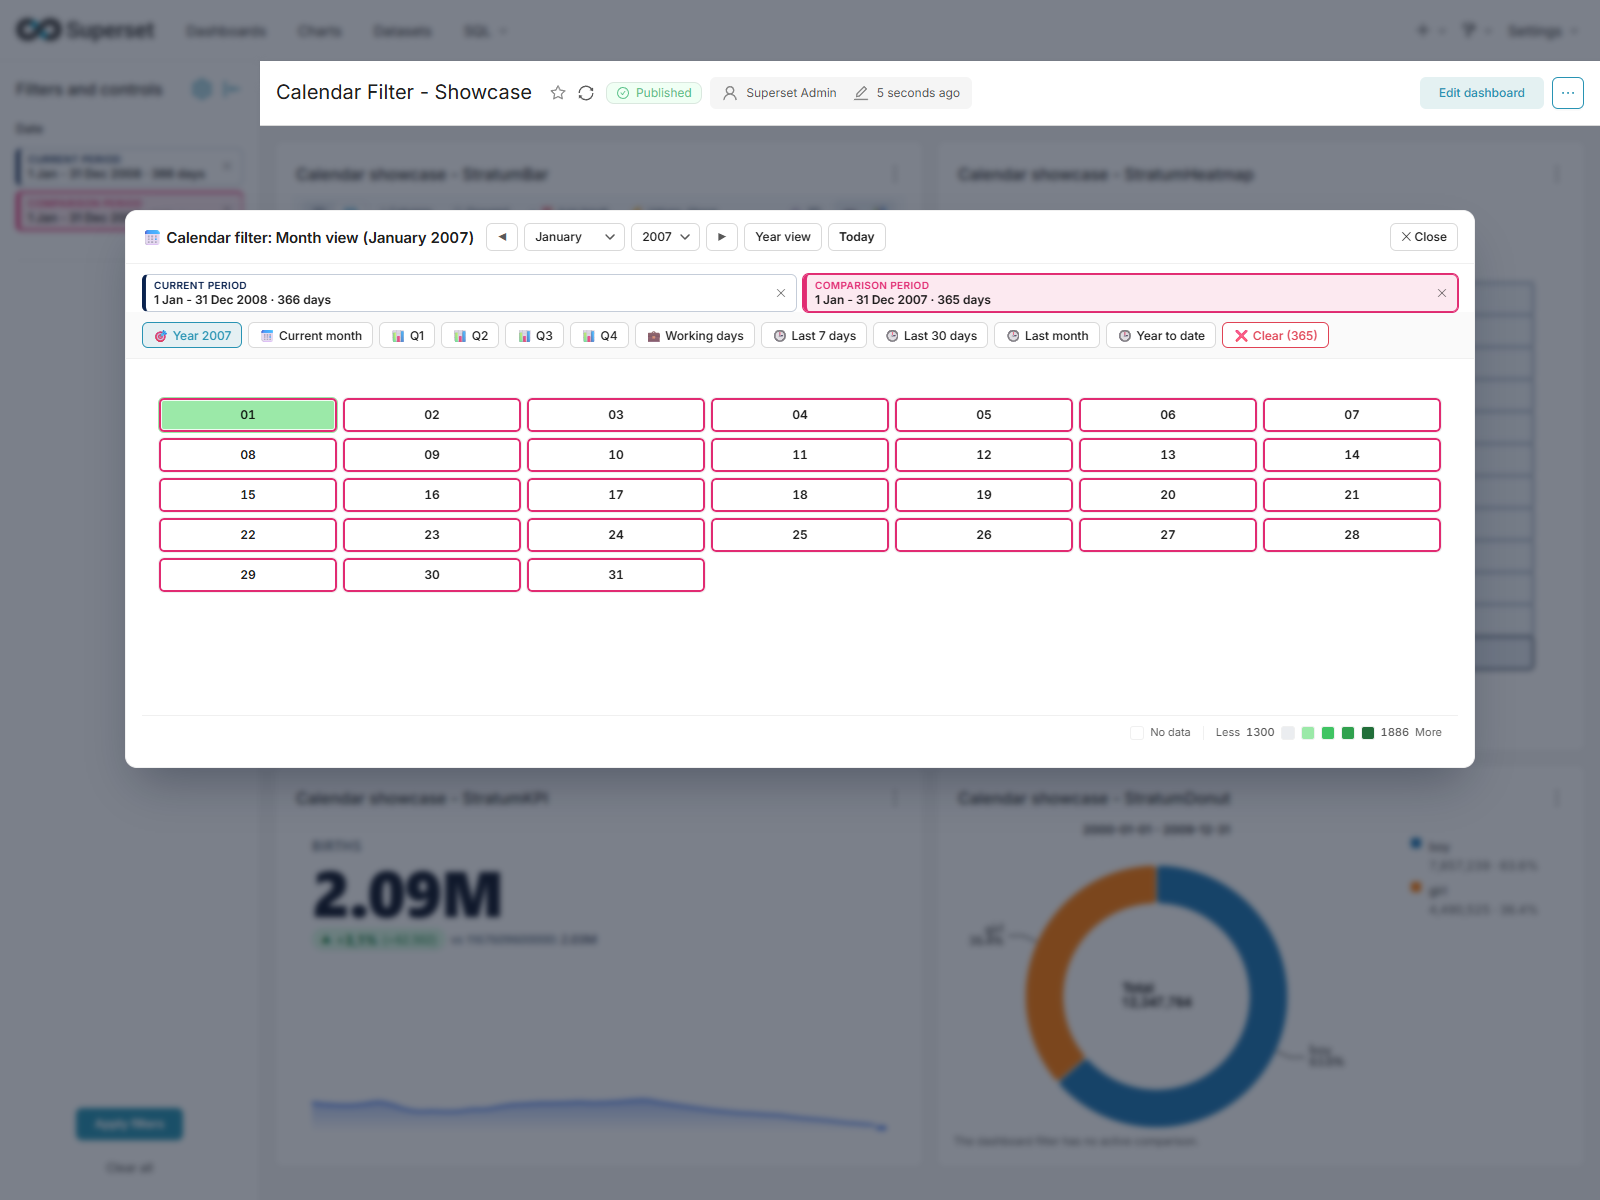
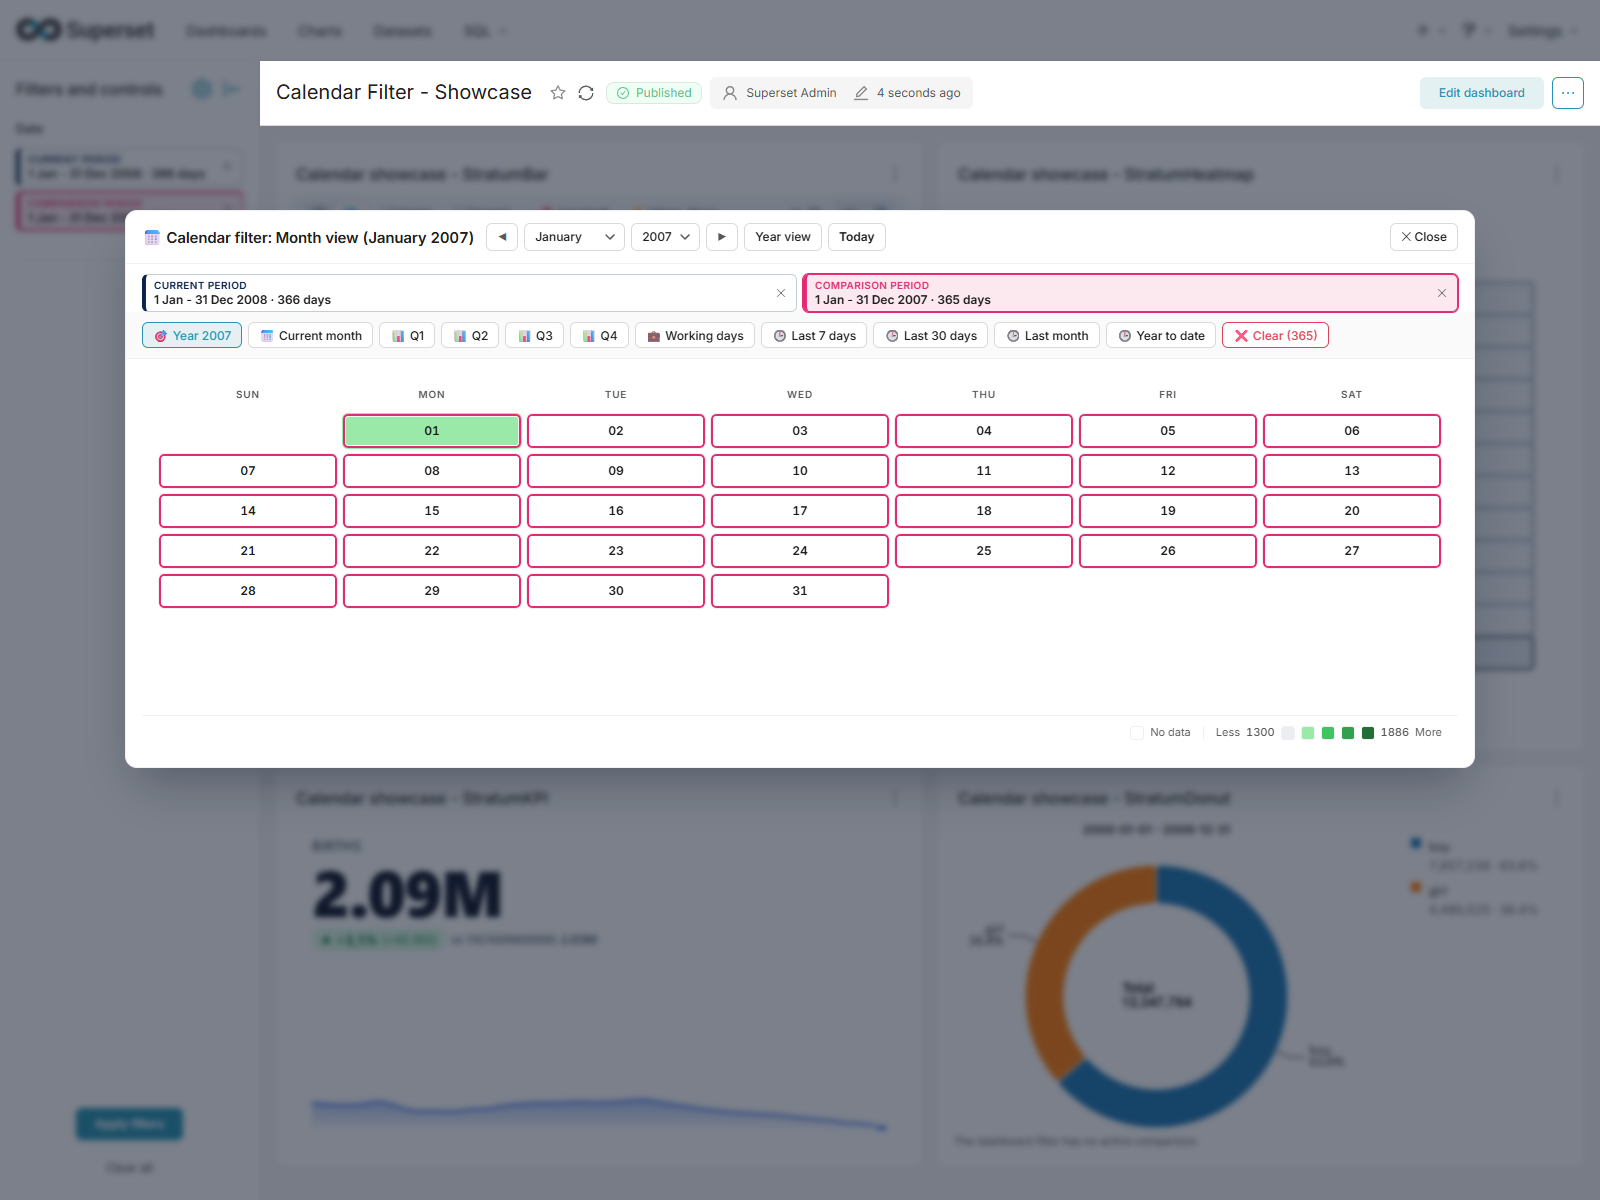
feat: name the two periods in the charts from the calendar filter (names, readable ranges, English or Italian)

Changed region(s): [[0.0938, 0.3083, 0.9062, 0.4933], [0.5625, 0.0617, 0.5938, 0.0925]]

diff --git a/src/hooks/useSelectionMask.ts b/src/hooks/useSelectionMask.ts
@@ -15,8 +15,11 @@ export function useSelectionMask(
   customDefaultEndDate?: string,
   inValueFormat: InValueFormat = 'date',
   comparisonEnabled = true,
-  /** Text for `filterState.label`, which Superset shows in the applied filters list instead of every day */
-  describe?: (t1: string[], t2: string[]) => string,
+  /**
+   * Text for `filterState.label`, which Superset shows in the applied filters list instead of every day,
+   * and the names and readable ranges of the two periods that charts can show (`custom`).
+   */
+  describe?: (t1: string[], t2: string[]) => { label: string; custom?: Record<string, unknown> },
 ) {
   const [requestedSlot, setActiveSlot] = useState<PeriodSlot>('T1');
   // Without a comparison period the reference period is the only one that can be edited
@@ -61,19 +64,28 @@ export function useSelectionMask(
 
       const extraFormData = buildExtraFormData(sortedT1, dateColumn, filterTypeMode, inValueFormat);
 
-      // Add time_compare and custom_form_data if T2 is present
+      const described = describe && (sortedT1.length > 0 || sortedT2.length > 0) ? describe(sortedT1, sortedT2) : null;
+
+      // The comparison period travels as an explicit range in time_compare
+      let t2Range: unknown;
       if (sortedT2.length > 0 && dateColumn) {
         const t2RangeExtra = buildExtraFormData(sortedT2, dateColumn, 'time_range', inValueFormat);
-        if (t2RangeExtra.time_range) {
-          (extraFormData as any).time_compare = [t2RangeExtra.time_range];
+        t2Range = t2RangeExtra.time_range;
+        if (t2Range) {
+          (extraFormData as any).time_compare = [t2Range];
         }
-        (extraFormData as any).custom_form_data = {
-          t1_dates: sortedT1,
-          t2_dates: sortedT2,
-          t1_range: extraFormData.time_range,
-          t2_range: t2RangeExtra.time_range,
-          active_slot: activeSlot,
-        };
+      }
+      // Superset only keeps this key when it is a list, hence the single element array. It carries what
+      // a chart needs to name the two periods: their labels and readable ranges, not every selected day.
+      if (dateColumn && (described?.custom || t2Range)) {
+        (extraFormData as any).custom_form_data = [
+          {
+            ...described?.custom,
+            t1_range: extraFormData.time_range,
+            t2_range: t2Range,
+            active_slot: activeSlot,
+          },
+        ];
       }
 
       let selectedValues: Record<string, string> | null = null;
@@ -88,8 +100,8 @@ export function useSelectionMask(
         value: sortedT1.length ? sortedT1 : null,
         selectedValues,
       };
-      if (describe && (sortedT1.length > 0 || sortedT2.length > 0)) {
-        filterStatePayload.label = describe(sortedT1, sortedT2);
+      if (described) {
+        filterStatePayload.label = described.label;
       }
       if (sortedT2.length > 0) {
         filterStatePayload.selectedDatesT1 = sortedT1;

diff --git a/test/DualSlotComparison.test.tsx b/test/DualSlotComparison.test.tsx
@@ -102,10 +102,13 @@ describe('CalendarFilter reference and comparison periods', () => {
       expect.objectContaining({
         extraFormData: expect.objectContaining({
           time_compare: ['2026-09-10 : 2026-09-11'],
-          custom_form_data: expect.objectContaining({
-            t1_dates: ['2026-09-15'],
-            t2_dates: ['2026-09-10'],
-          }),
+          custom_form_data: [
+            expect.objectContaining({
+              t1_range: '2026-09-15 : 2026-09-16',
+              t2_range: '2026-09-10 : 2026-09-11',
+              period_labels: { reference: 'Current period', comparison: 'Comparison period' },
+            }),
+          ],
         }),
         filterState: expect.objectContaining({
           selectedDatesT1: ['2026-09-15'],
@@ -126,6 +129,23 @@ describe('CalendarFilter reference and comparison periods', () => {
     fireEvent.click(container.querySelectorAll('[data-date="2026-09-10"]')[0]);
     mask = mockSetDataMask.mock.calls[mockSetDataMask.mock.calls.length - 1][0];
     expect(mask.filterState.label).toMatch(/^This year: .* | Last year: .*10.*2026 · 1 day$/);
+  });
+
+  it('sends the names and readable ranges of the periods to the charts, as a list Superset keeps', () => {
+    const { container } = render(<CalendarFilter {...baseProps} locale="it" referenceLabel="Quest'anno" comparisonLabel="Anno scorso" />);
+    fireEvent.click(container.querySelectorAll('[data-date="2026-09-15"]')[0]);
+    fireEvent.click(cardOf(container, 'T2').querySelector('button') as HTMLElement);
+    fireEvent.click(container.querySelectorAll('[data-date="2026-09-10"]')[0]);
+    const mask = mockSetDataMask.mock.calls[mockSetDataMask.mock.calls.length - 1][0];
+    const custom = mask.extraFormData.custom_form_data;
+    // Superset drops append keys that are not iterable, so it must be an array
+    expect(Array.isArray(custom)).toBe(true);
+    expect(custom[0].period_labels).toEqual({ reference: "Quest'anno", comparison: 'Anno scorso' });
+    expect(custom[0].period_text.reference).toMatch(/15.*2026/);
+    expect(custom[0].period_text.comparison).toMatch(/10.*2026/);
+    expect(custom[0].locale).toBe('it');
+    // not every selected day
+    expect(custom[0].t1_dates).toBeUndefined();
   });
 
   it('does not send a label when nothing is selected', () => {

diff --git a/src/CalendarFilter.tsx b/src/CalendarFilter.tsx
@@ -55,6 +55,7 @@ import {
   getLabels,
   getMonthName,
   getWeekdayLabels,
+  resolveLocale,
 } from './utils/labels';
 import { DEFAULT_PRESETS } from './utils/presets';
 import { resolvePeriodNames, summarizePeriod } from './utils/periods';
@@ -144,18 +145,29 @@ export default function CalendarFilter(props: CalendarFilterProps) {
 
   // Short text for the applied filters list of the dashboard, instead of one entry per selected day
   const describeSelection = useCallback(
-    (t1: string[], t2: string[]): string => {
+    (t1: string[], t2: string[]) => {
       const first = summarizePeriod(t1, labels);
       const second = summarizePeriod(t2, labels);
-      if (!enableComparison) return first.text;
-      return [
-        t1.length > 0 ? `${periodNames.T1}: ${first.text}` : '',
-        t2.length > 0 ? `${periodNames.T2}: ${second.text}` : '',
-      ]
-        .filter(Boolean)
-        .join(' | ');
+      const label = !enableComparison
+        ? first.text
+        : [
+            t1.length > 0 ? `${periodNames.T1}: ${first.text}` : '',
+            t2.length > 0 ? `${periodNames.T2}: ${second.text}` : '',
+          ]
+            .filter(Boolean)
+            .join(' | ');
+      return {
+        label,
+        // What charts show for the two periods: the names chosen here and the ranges in the calendar language
+        custom: {
+          version: 1,
+          period_labels: { reference: periodNames.T1, comparison: periodNames.T2 },
+          period_text: { reference: first.range, comparison: second.range },
+          locale: resolveLocale(locale),
+        },
+      };
     },
-    [labels, periodNames, enableComparison],
+    [labels, periodNames, enableComparison, locale],
   );
 
   const {

diff --git a/README.md b/README.md
@@ -225,6 +225,8 @@ The reference period becomes the dashboard time range and the comparison period 
 
 With the comparison left off, or the donut set to its own preset, the charts keep showing one period.
 
+**Names and dates in the charts.** `custom_form_data` carries the period names and readable ranges, so StratumBar, StratumHeatmap and StratumKPI name the periods in the language of the calendar (`locale`, English or Italian): the Bar legend reads `Current period · 1 Jan - 31 Mar 2008`, the KPI label `vs Comparison period · 1 Jan - 31 Mar 2007`. The names are the *Reference period label* and *Comparison period label* options. Labels typed in a chart's own control panel win. The list of every selected day is no longer sent.
+
 ---
 
 ## 🔄 Cross-Filter API Payload
@@ -260,7 +262,12 @@ setDataMask({
 extraFormData: {
   time_range: '2026-04-01 : 2026-04-16',                // reference period
   time_compare: ['2025-04-01 : 2025-04-16'],            // comparison period
-  custom_form_data: { t1_dates, t2_dates, t1_range, t2_range, active_slot },
+  custom_form_data: [{                                  // a list: Superset drops this key when it is an object
+    version: 1,
+    period_labels: { reference: 'Current period', comparison: 'Comparison period' },
+    period_text: { reference: '1 Jan - 31 Mar 2008', comparison: '1 Jan - 31 Mar 2007' },
+    t1_range, t2_range, active_slot, locale,
+  }],
 }
 ```
 

diff --git a/CHANGELOG.md b/CHANGELOG.md
@@ -2,6 +2,14 @@
 
 ## [Unreleased]
 
+## [0.2.0] - 2026-11-01
+### Added
+- **Period names and readable ranges for the charts**: `extraFormData.custom_form_data` now carries `period_labels` (the names chosen in the control panel), `period_text` (ranges such as `1 Jan - 31 Mar 2008`, in the calendar language, English or Italian) and `locale`, so charts can name the two periods instead of printing raw dates. StratumBar, StratumHeatmap and StratumKPI do.
+
+### Changed
+- **`custom_form_data` is a list with one object** and no longer holds `t1_dates` and `t2_dates`. Superset only keeps this key when it is iterable, so as an object it never reached the charts of a dashboard; the list of every selected day is not sent to each chart any more. `t1_range`, `t2_range` and `active_slot` are still there.
+- 1 new test (191 in total).
+
 ## [0.1.18] - 2026-11-01
 ### Added
 - **Short applied filters text**: the filter now sends `filterState.label` (for example `Current period: 1 Jan - 31 Mar 2008 · 91 days | Comparison period: 1 Jan - 31 Mar 2007 · 90 days`), which the dashboard shows in the applied filters list of each chart. Before, that list printed every selected day, hundreds of dates for a year. It uses the period labels and is left out when nothing is selected.
